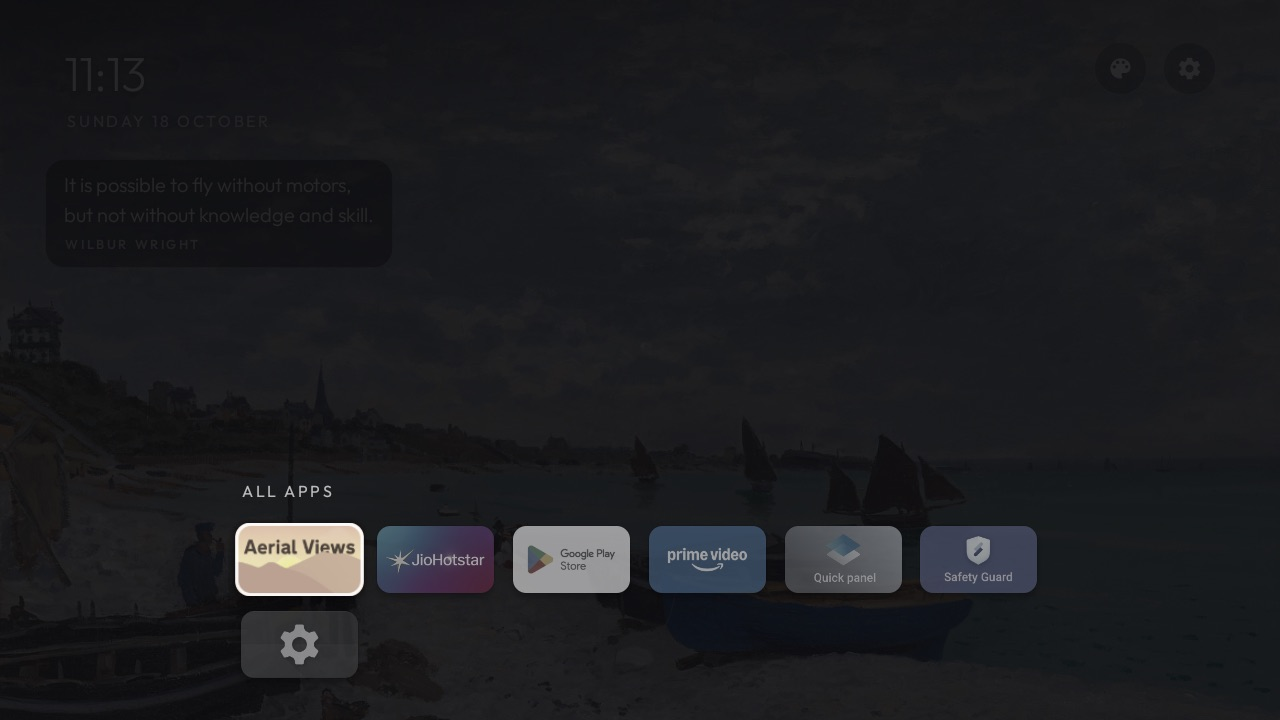
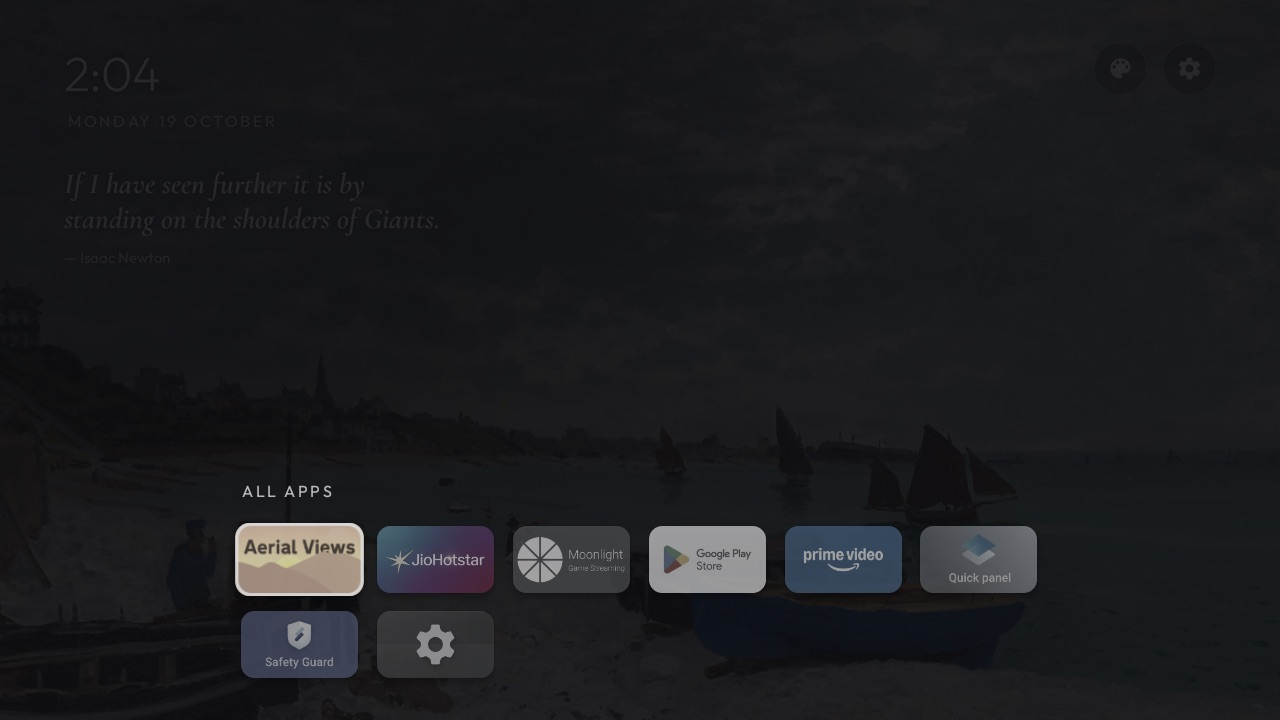
docs: screenshots from the current build

Changed region(s): [[0.375, 0.7333, 0.8125, 0.825], [0.1562, 0.7028, 0.375, 0.9472]]

diff --git a/README.md b/README.md
@@ -2,7 +2,7 @@
 
 A minimal home screen for Android TV and Google TV that shows a painting until you want to watch something.
 
-![The home screen: Hokusai's Red Fuji with the clock, a quote by Dieter Rams and a dock of three apps](docs/home-red-fuji.jpg)
+![The home screen: Hokusai's Great Wave with the clock, a quote by Frida Kahlo and a dock of three apps](docs/home-great-wave.jpg)
 
 It installs on any Android TV or Google TV with Android 8 or later.
 
@@ -38,7 +38,7 @@ Cards are muted until you focus one, then it lifts.
 The quote's ink changes with each painting: dark ink on light paper, white ink on dark or busy
 paintings, with just enough shade behind it to stay readable.
 
-<img src="docs/home-crepe-ginger.jpg" width="49%" alt="Home on a light botanical painting by Shaikh Zain al-Din, with dark ink"> <img src="docs/home-boating-party.jpg" width="49%" alt="Home on Renoir's Luncheon of the Boating Party, with white ink">
+<img src="docs/home-indian-roller.jpg" width="49%" alt="Home on Shaikh Zain al-Din's Indian Roller, a light album page, with dark ink"> <img src="docs/home-boating-party.jpg" width="49%" alt="Home on Renoir's Luncheon of the Boating Party, with white ink">
 <img src="docs/home-ninth-wave.jpg" width="49%" alt="Home on Aivazovsky's The Ninth Wave">
 
 ### Idle
@@ -62,15 +62,13 @@ The default screensaver is the home screen with nothing else on it: the painting
 with the painting's title, artist and year bottom left. The framed Gallery is also available as a
 screensaver, and so is a plain drifting clock.
 
-<img src="docs/screensaver-oriole.jpg" width="49%" alt="Screensaver: Black-headed Oriole by Shaikh Zain al-Din, with a quote and caption"> <img src="docs/screensaver-temeraire.jpg" width="49%" alt="Screensaver: Turner's The Fighting Temeraire, with a quote and caption">
+<img src="docs/screensaver-oriole.jpg" width="49%" alt="Screensaver: Black-headed Oriole by Shaikh Zain al-Din, with a quote and caption"> <img src="docs/screensaver-breezing-up.jpg" width="49%" alt="Screensaver: Winslow Homer's Breezing Up, with a quote and caption">
 
 ### All apps
 
 The last tile in the dock opens every installed app in a grid over the dimmed painting.
 
 ![All apps grid over a dimmed painting](docs/all-apps.jpg)
-
-This screenshot is from a slightly older build, which still showed the quote in a box.
 
 ### The art
 
